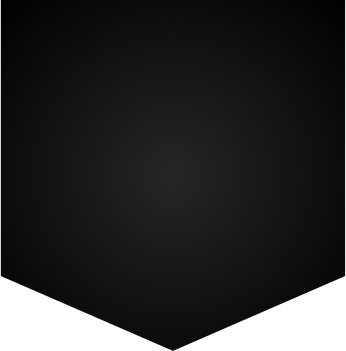
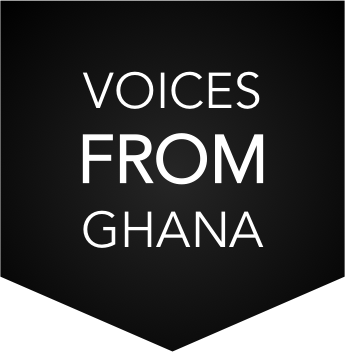
Blog page edits

diff --git a/public/css/home.css b/public/css/home.css
@@ -1,18 +1,68 @@
-#placeholder {
+.placeholder {
 	height: 75px;
 }
 
 
-.voices-site {
+.voices-site-outside {
 	font: avenir;
 	font-size: 1.25em;
+	background-color: #e0e0e0;
 }
 
-.voices-background {
-	padding: 5em 3em 0 3em;
-	//background-image: url('../images/KimT.png');
-	//background: linear-gradient;
-	border: 1px solid black;
+#voices-background {
+	width: 100%;
+	height: 350px;
+	position: absolute;
+}
+
+.voices-site-inside {
+	position: relative;
+	top: 6.61em;
+	left: 9.21%;
+	width: 82%;
+	padding: 5em;
+	background-color: white;
+}
+
+#voices-border-flag {
+	position: relative;
+	top: -216px;
+	left: -17.5px;
+	display: inline;
+	height: 265px;
+	width: 249px;
+}
+
+#voices-border-flag-div {
+	height: 8em;
+}
+
+.voices-blog-letter {
+	width: 15em;
+}
+
+.voices-col1 {
+	padding: 0 4em 0 0;
+	margin-top: -47px;
+	margin-left: -24px;
+}
+
+.voices-col2 {
+	padding: 0 0 0 2em;
+	border-left: 1px solid black;
+}
+
+#voices-recent-image {
+	width: 100%;
+	height: 235px;
+}
+
+#nav {
+	position: relative;
+	top: -68px;
+	left: 47px;
+	font-size: 1.45em;
+	letter-spacing: 0.01em;
 }
 
 .nav {
@@ -38,34 +88,36 @@
 	font-size: 1.25em;
 }
 
+#nav div a.nav-unselected:link {
+	color: black;
+    text-decoration: none;
+}
+
+#nav div a.nav-unselected:visited {
+	color: black;
+    text-decoration: none;
+}
+
+#nav div a.nav-unselected:hover {
+	color: black;
+	border-bottom: 1px solid black;
+}
+
+#nav div a.nav-unselected:active {
+    text-decoration: none;
+}
+
 #nav-selected {
 	color: #FFBD36;
 	text-decoration: none;
 	border-bottom: 1px solid #FFBD36;
 }
 
-.nav div div a:link {
-	color: black;
-    text-decoration: none;
-}
-
-.nav div div a:visited {
-	color: black;
-    text-decoration: none;
-}
-
-.nav div div a:hover {
-	color: black;
-	border-bottom: 1px solid black;
-}
-
-.nav div div a:active {
-    text-decoration: none;
-}
-
 .voices-recent {
+	/*
 	border: 1em solid #e5e5e5;
 	border-radius: 7px;
+	*/
 }
 
 .voices-recent-blurb {
@@ -80,7 +132,7 @@
 .archive-title-words {
 	text-align: center;
 	text-decoration: none;
-	font-size: 1.5em;
+	font-size: 1.25em;
 	margin-left: -0.5em;
 	margin-bottom: 1em;
 }

diff --git a/config/mongoose.js b/config/mongoose.js
@@ -4,7 +4,11 @@
  */
 
 module.exports = function(mongoose) {
-	var DB_SERVER = 'voices'; // server name
+	var DB_SERVER_DEVELOPMENT = 'voices'; // server name
+	var DB_SERVER_PRODUCTION = 'mongodb://:<pass>@candidate.15.mongolayer.com:10001,candidate.16.mongolayer.com:10001/app003132345';
+	var DB_SERVER = process.env.MONGOLAB_URI ||
+  		process.env.MONGOHQ_URL ||
+  		'mongodb://localhost/voices';
 	var Post = require('../models/post.js');
 
 	var db = mongoose.connection;
@@ -30,5 +34,5 @@ module.exports = function(mongoose) {
 		// });
 		// post.save();
 	});
-	mongoose.connect('mongodb://localhost/' + DB_SERVER);
-}
+	mongoose.connect(DB_SERVER);
+};

diff --git a/routes/index.js b/routes/index.js
@@ -13,6 +13,8 @@ module.exports = function(app) {
 	//app.get('/', pageHandlers.blog);
 
 	// For audience
+	app.get('/', pageHandlers.index);
+
 	app.get('/blog', pageHandlers.blog);
 
 	//app.get('/about', pageHandlers.about);
@@ -29,6 +31,8 @@ module.exports = function(app) {
 	app.post('/admin/blog/update/:id', adminHandlers.blogUpdate);
 
 	//app.post('/admin/blog/delete/:id', adminHandlers.blogEdit);
+
+	// robot.txt
 
 	// If url not found
 	app.get('*', defaultHandlers.index);

diff --git a/routes/pages.js b/routes/pages.js
@@ -1,9 +1,13 @@
 var Post = require('../models/post.js');
 
+exports.index = function(req, res) {
+	res.redirect('/blog');
+}
+
 exports.blog = function(req, res) {
 	Post.find({}, function(err, posts) {
 		if(err) console.log(err);
 		if(err) next(err);
-		res.render('home/home', {posts: posts, current_page: 'blog'});
+		res.render('home/home', {posts: posts, current_page: 'home'});
 	});
 };
